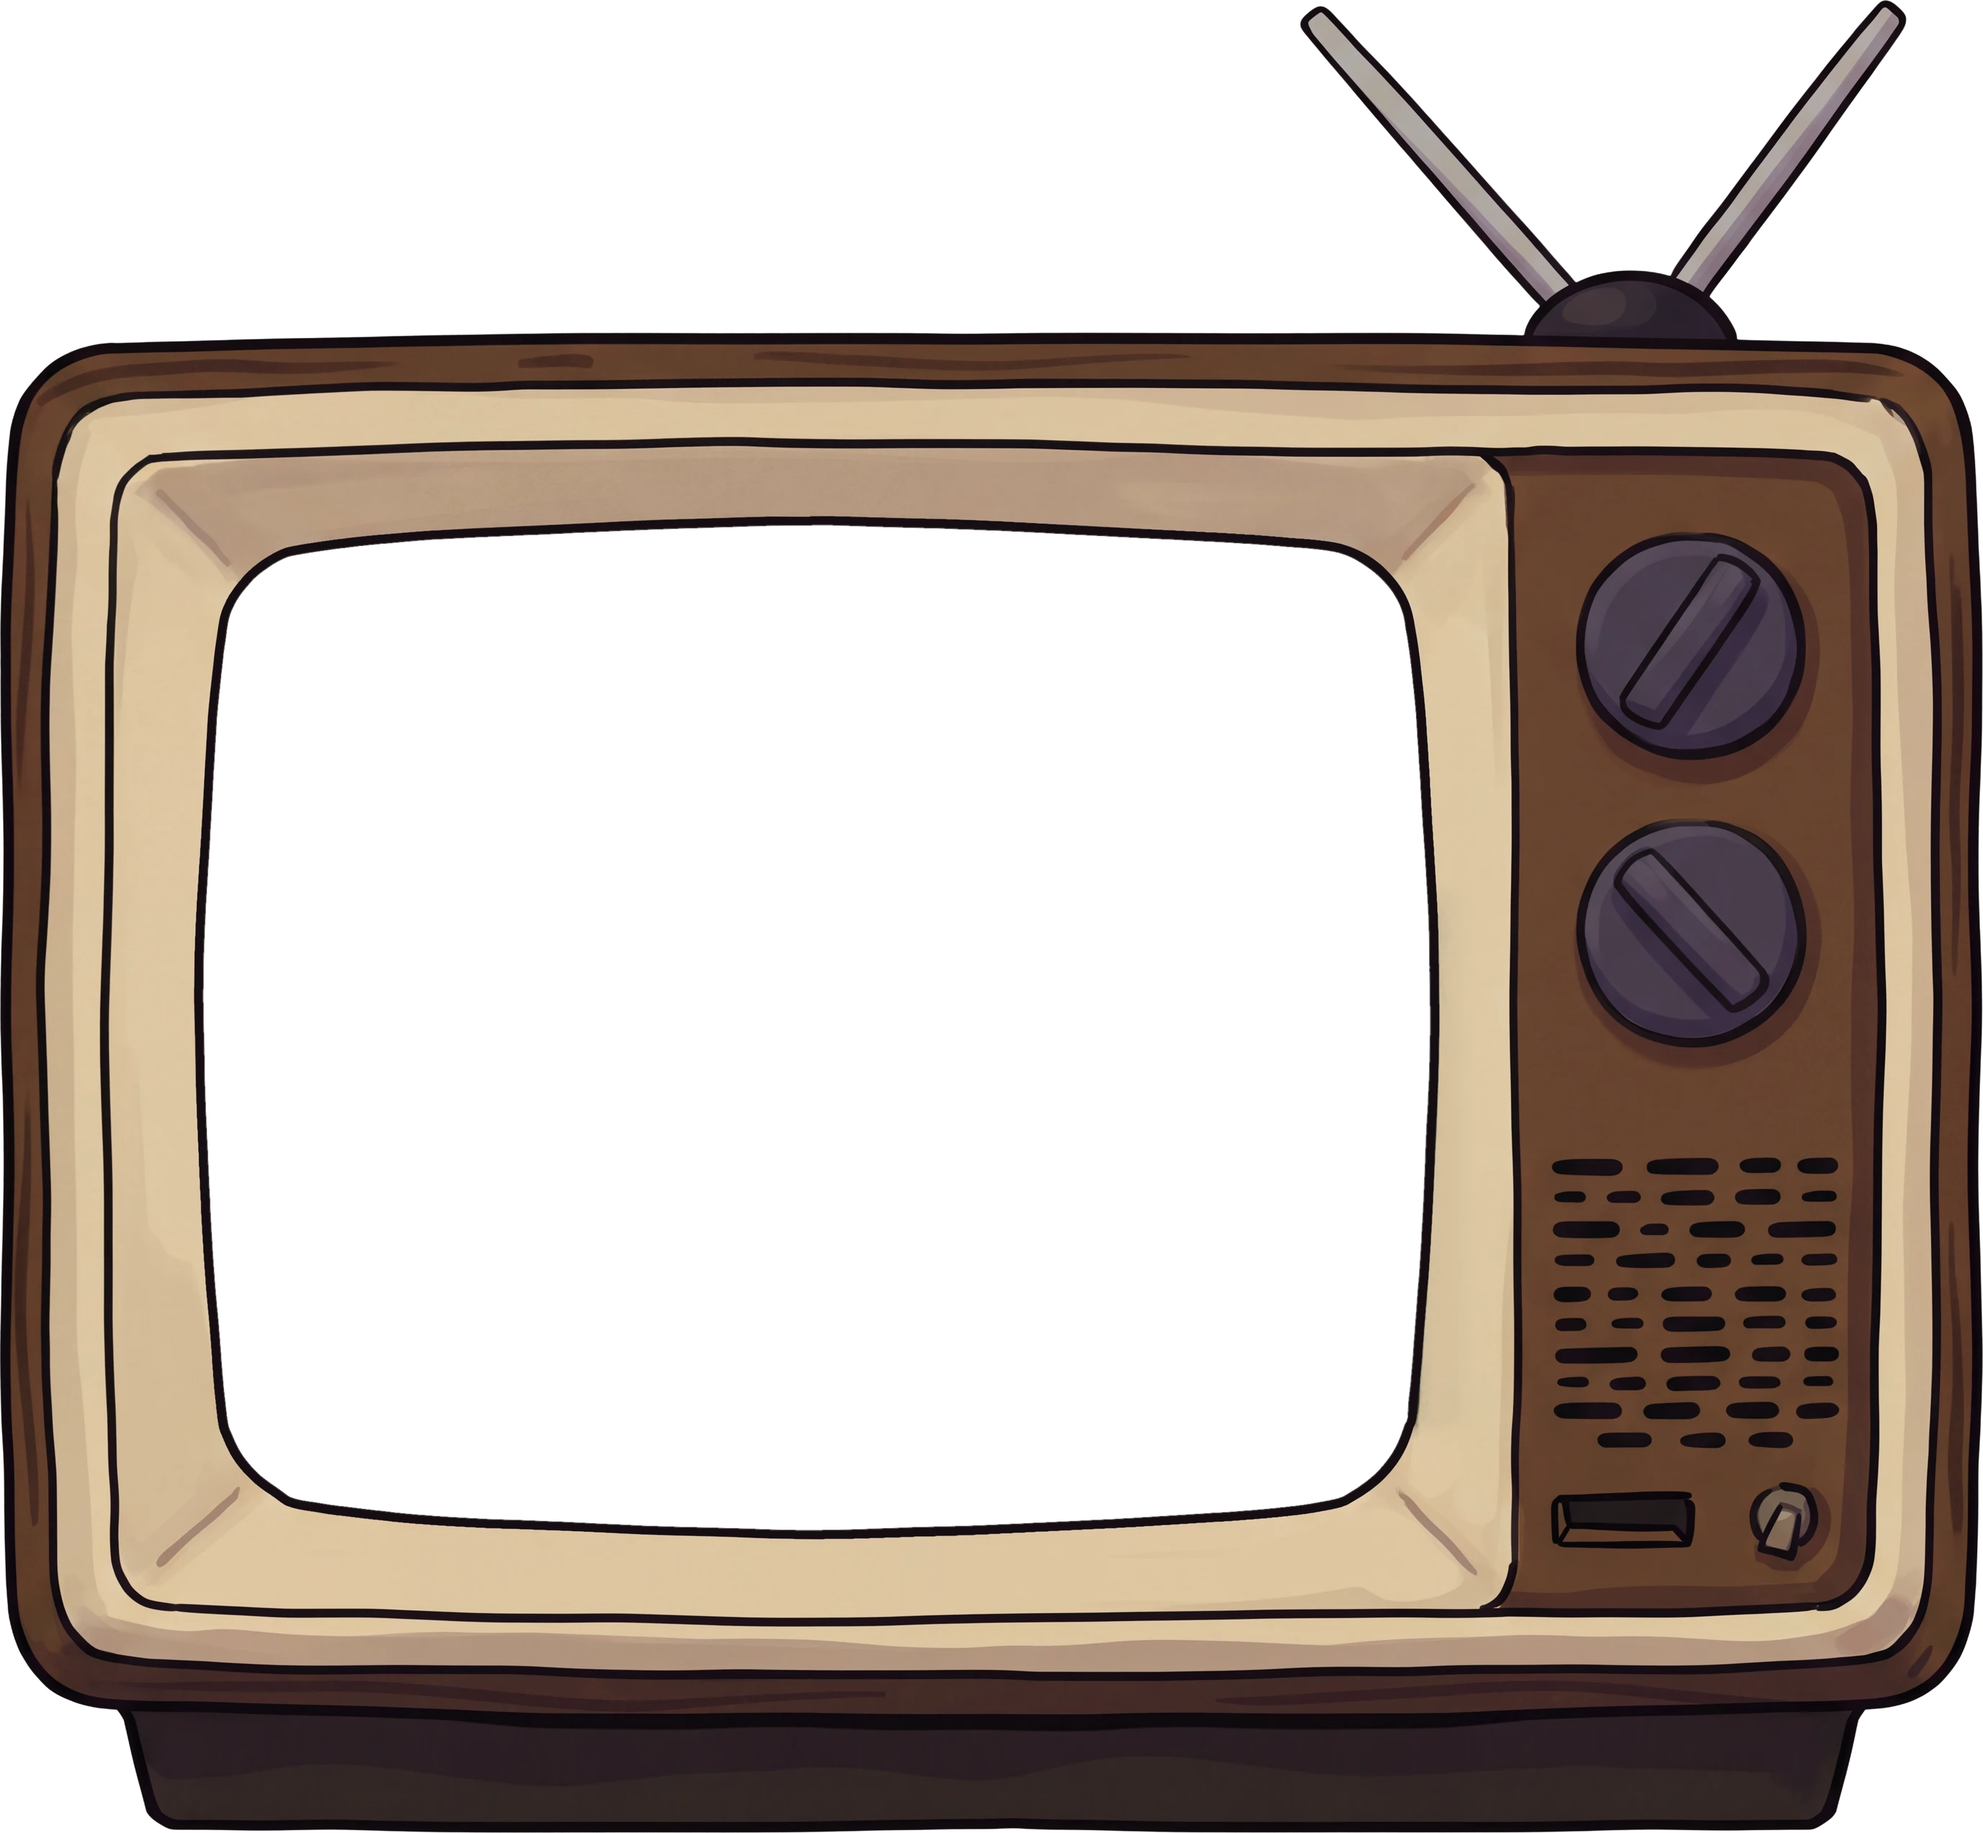
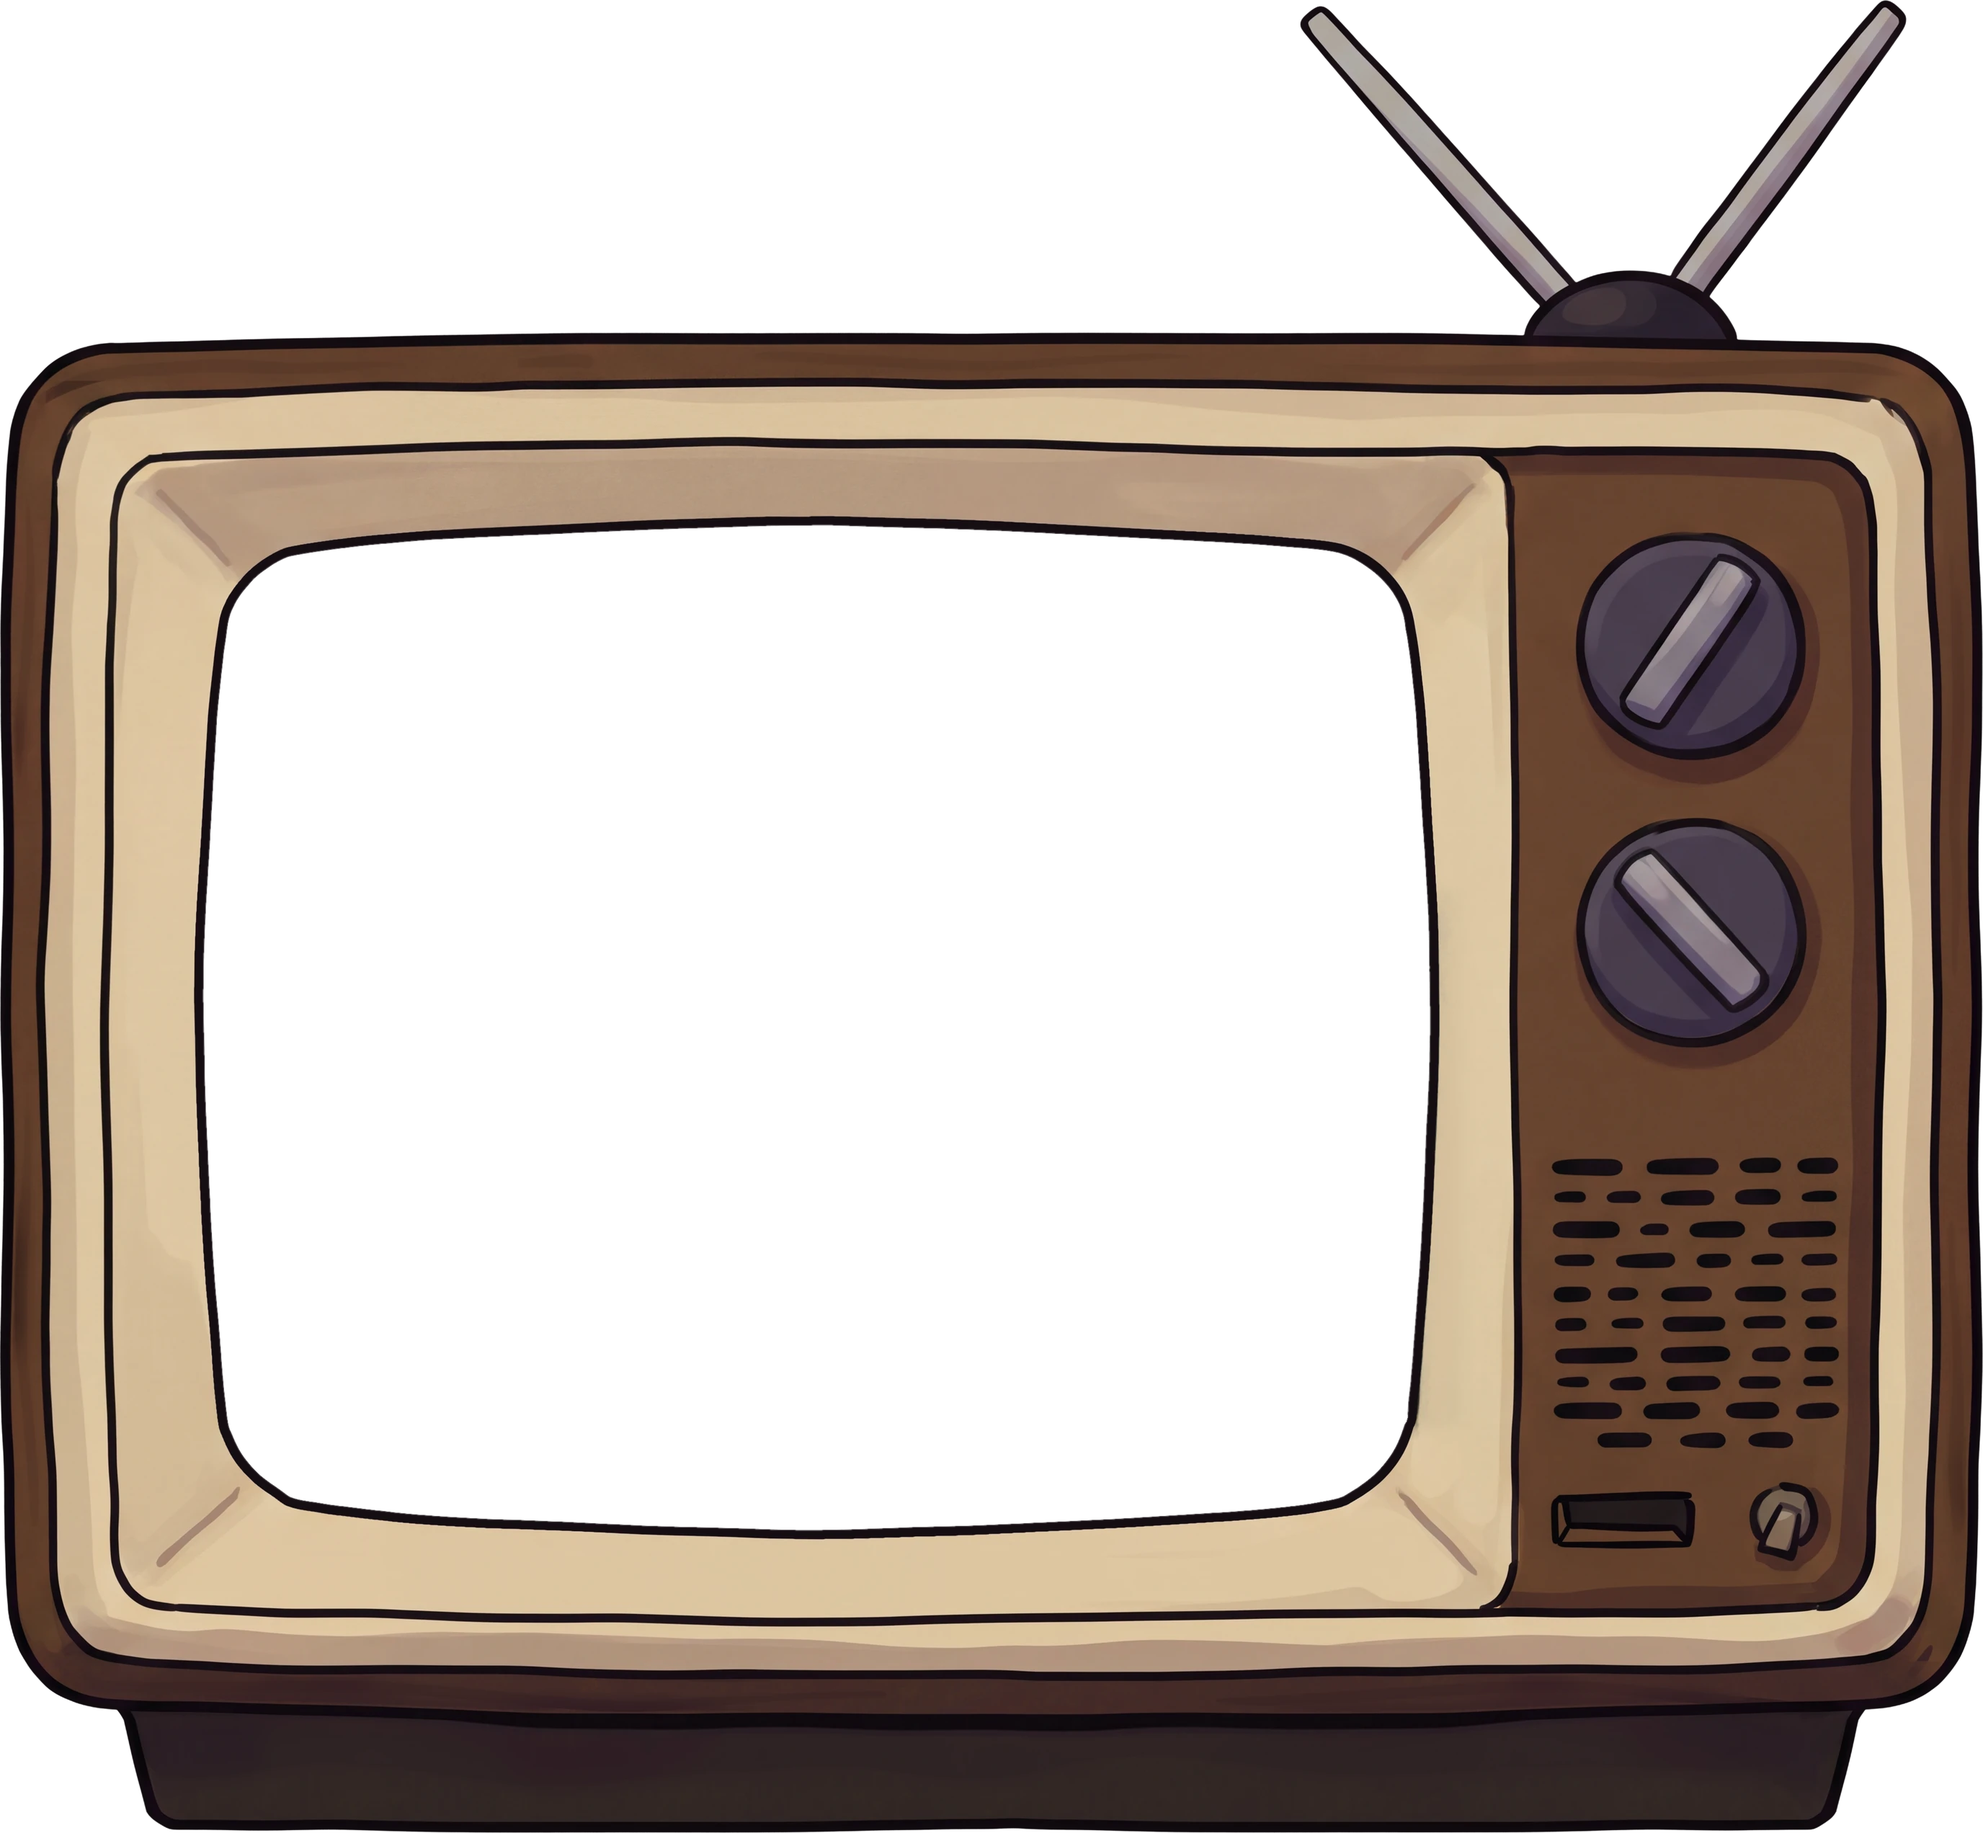
Tea room: round 1 on the television, at 100% beside the garden plate
The knobs' pointer bars are pale on dark knobs, as the model's are, so they
read as knobs at the size the set has in the garden. The front picture's second
knob gets the piece of ring its painter left out, three leftover scraps of
grain are gone from the three-quarter picture, and the front's rim and plinth
lose their streaks so both pictures are one piece of wood.

Claude-Session: https://claude.ai/code/session_01H1qqxvg7NVfd4R6U8xEdiX

Changed region(s): [[0.8125, 0.4347, 0.9062, 0.559], [0.8125, 0.3105, 0.9062, 0.4037], [0.8438, 0.1863, 0.9062, 0.2174]]

diff --git a/docs/tea/gen/shared.md b/docs/tea/gen/shared.md
@@ -52,9 +52,9 @@ costs twice a `2k` one, and two requests never return the same picture, so a com
 | `washi.webp` | 512, 512 | 6,320 | no | the paper tile. Tiles both ways. Its mean colour is the paper colour `#F1E6D0` |
 | `screen.webp` | 1776, 2000 | 292,690 | yes | one sliding screen: cedar frame and lattice opaque, the paper see-through |
 | `sheet-shadow.webp` | 384, 384 | 4,284 | yes | the one shadow under a sheet or a slip, as a nine-slice |
-| `tv.webp` | 2254, 2048 | 147,394 | yes | the little television, three-quarter view, cut out, its glass a hole |
-| `tv-face.webp` | 2752, 2544 | 178,590 | yes | the same set seen from the front, whole, cut out, its glass a hole |
-| `tv-face-p.webp` | 1536, 2752 | 93,404 | yes | the same front picture at a phone's size, on a 9:16 canvas |
+| `tv.webp` | 2254, 2048 | 148,476 | yes | the little television, three-quarter view, cut out, its glass a hole |
+| `tv-face.webp` | 2752, 2544 | 175,760 | yes | the same set seen from the front, whole, cut out, its glass a hole |
+| `tv-face-p.webp` | 1536, 2752 | 91,998 | yes | the same front picture at a phone's size, on a 9:16 canvas |
 | `shadow-example.webp` | 1620, 720 | 22,112 | yes | the worked example of a screen shadow: a lantern and a kettle |
 
 No file is video or audio. The largest is under 1 MiB.
@@ -440,6 +440,28 @@ machine restart). The paper, the screens and the shadow are answered in the roun
    same geometry: the paper is cut pane by pane at the master's size, its soft edge is ink and paper only (the
    script counts pale pixels over the night ground and refuses any), and the veil is 0.09. The cedar is
    `rgb(64, 39, 41)` in every light, because wood is opaque. The sizes are checked in the screens' round.
+
+### Round 1: the set, at 100% beside the garden plate
+
+Sheet: `r1-tv-100.png` (twelve tiles at 100%: two of the garden plate, the knobs, the grille, the aerial's
+base and the frame's corner of `tv.webp`, the rim, the second knob, the switch and the aerial's base of
+`tv-face.webp`, the knobs and a glass corner of `tv-face-p.webp`). After the fixes: `r1-tv-after-100.png`.
+Measured on this round's files: the ink line's edge is 1.60 px on `tv.webp`, 1.64 on `tv-face.webp`, 1.56 on
+`tv-face-p.webp`, and 1.60 on the garden plate (10% to 90% of the step, as in the `4k` measurement).
+
+The three weakest things:
+
+1. **The knobs were two dark discs with nothing on them.** Each knob's pointer bar was painted in the knob's
+   own colour, so it did not read, and at the size the set has in the garden the knobs were blobs. The model's
+   bars are pale metal across a dark knob, and that is what makes them knobs. The four bars are now pale
+   (`132, 120, 130`) on the dark knob (`74, 62, 78`).
+2. **Lines the painter left open, and marks the first clean-up left behind.** The second knob of the front
+   picture had no ring across its top (24 degrees of it were missing): closed with an arc of the same ink. On
+   the three-quarter picture three scraps of grain strokes had survived beside the edge between the top and
+   the side: painted out.
+3. **The front picture still had streaks in its wooden rim and plinth while the three-quarter picture had
+   none**, so the two did not look like one piece of wood. Painted out to a quarter of their strength: what is
+   left reads as the rim's own shading, not as grain.
 
 ## Generation log
 
